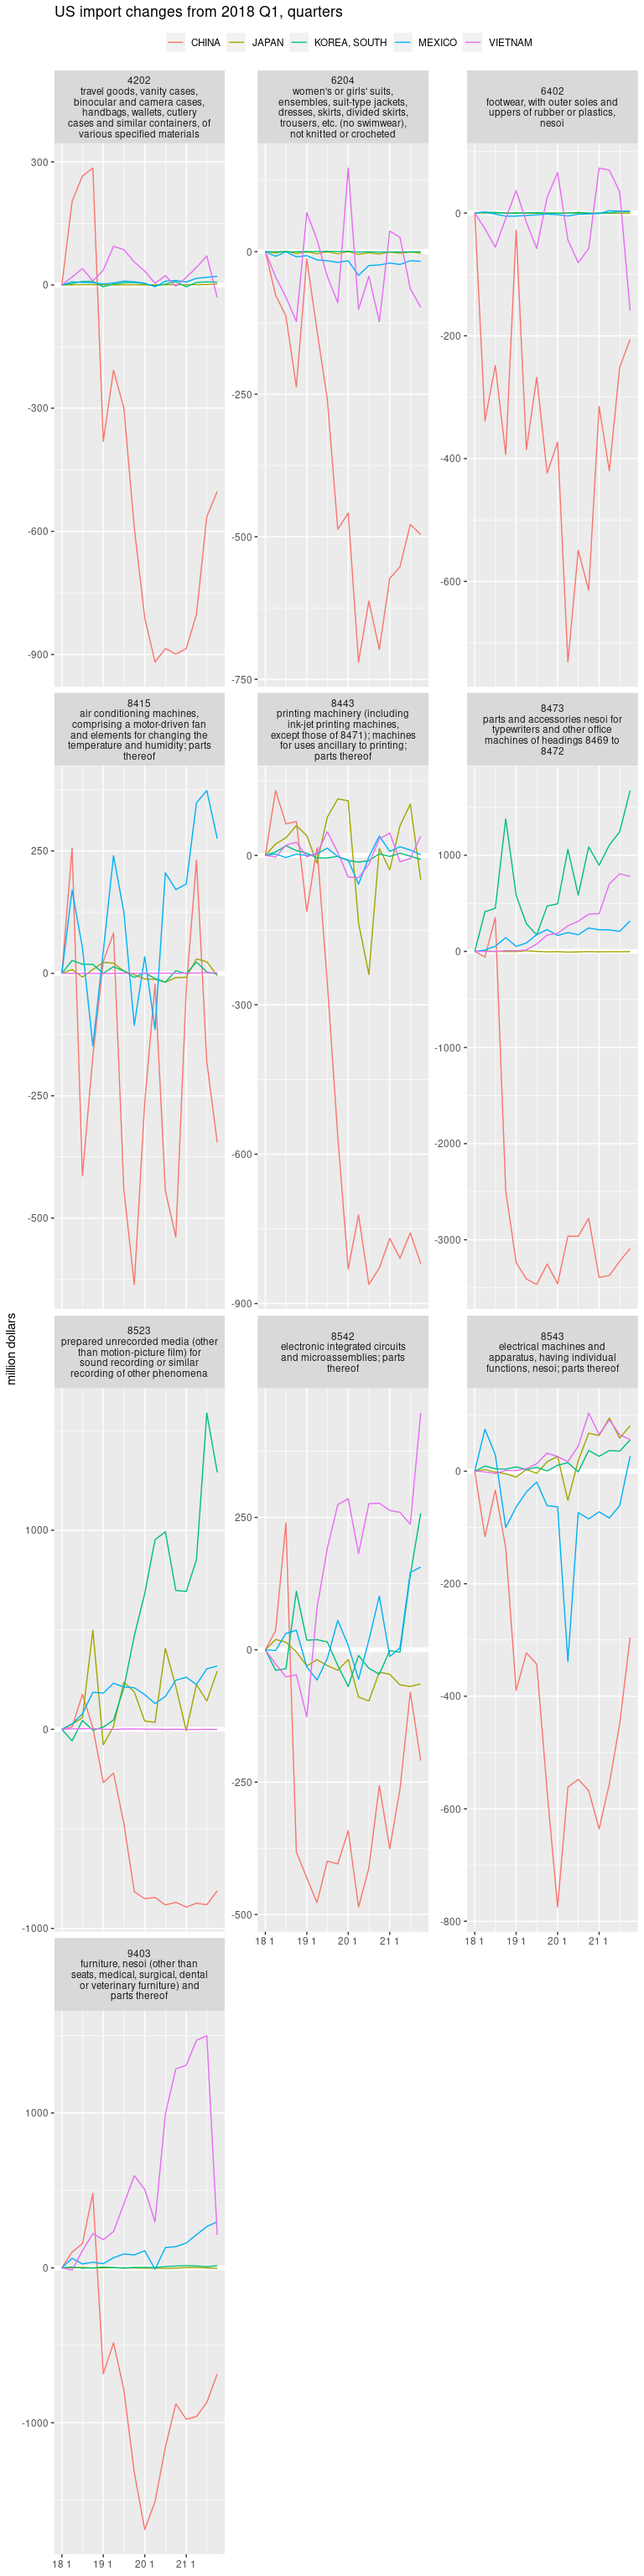
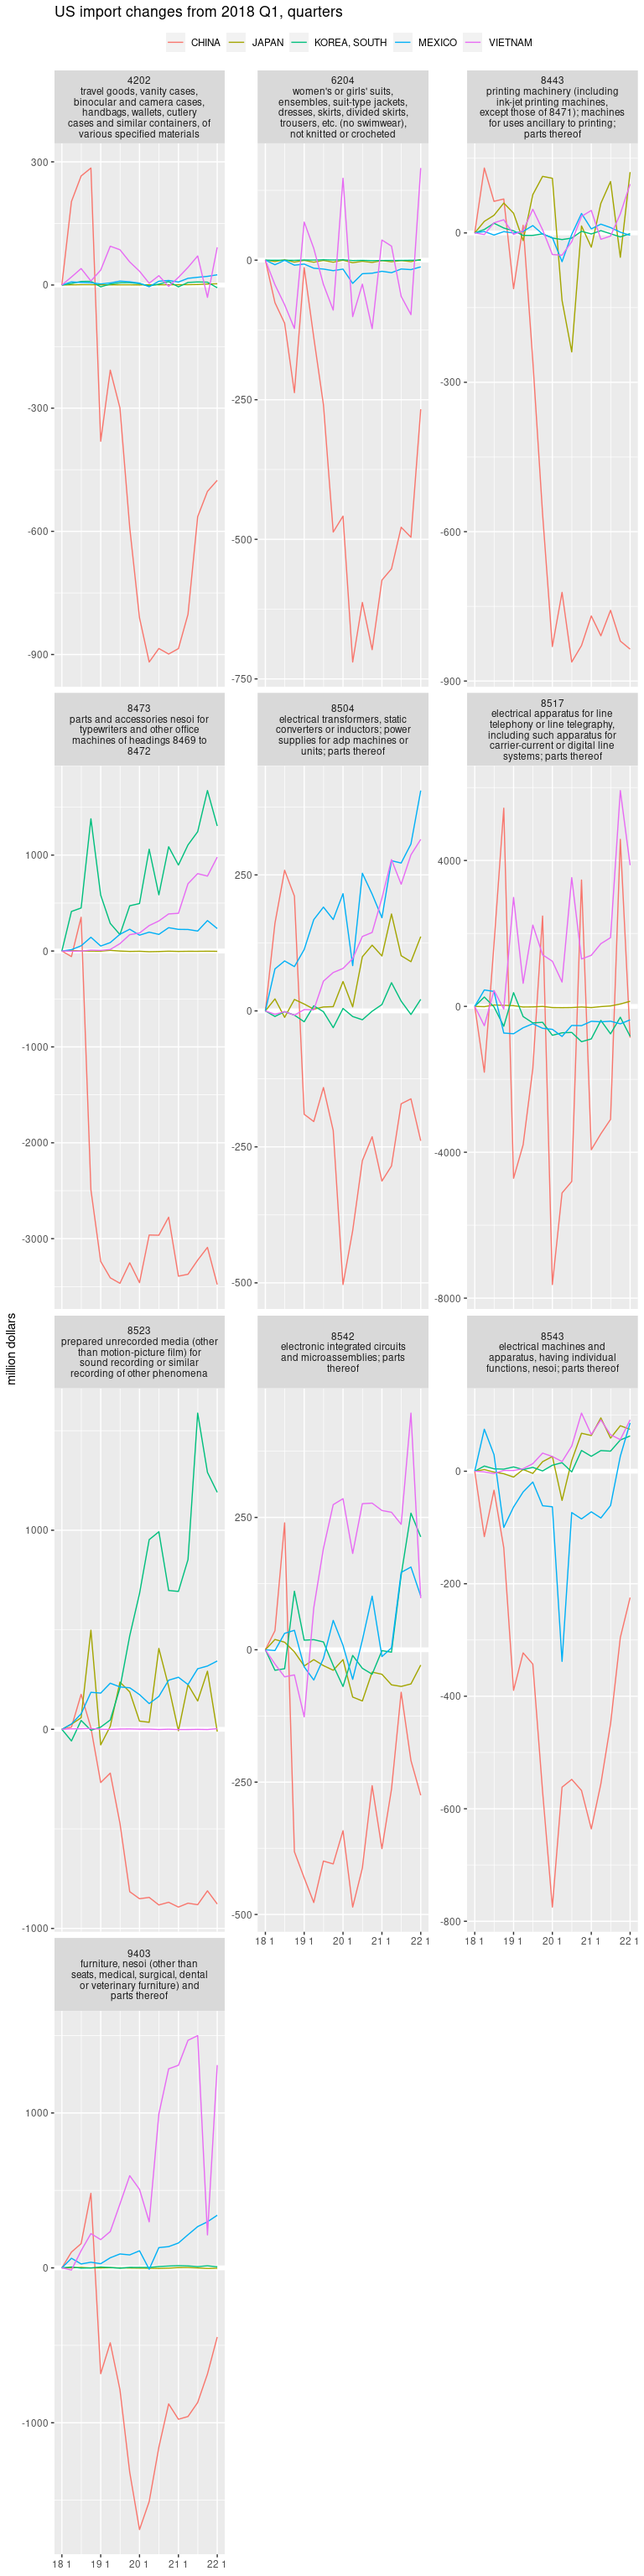
update March 2022 trade

diff --git a/Trade-diversion.md b/Trade-diversion.md
@@ -12,7 +12,7 @@ Mitsuo Shiota
 -   [Draw charts of US import changes from 2018 Q1 from each
     country](#draw-charts-of-us-import-changes-from-2018-q1-from-each-country)
 
-Updated: 2022-02-09
+Updated: 2022-05-05
 
 ## Summary
 
@@ -44,9 +44,9 @@ imports from China are still more than 500 million dollars.
 For the goods descriptions of HS codes, I refer to
 <https://dataweb.usitc.gov/classification/commodity-description/HTS/4>.
 
-Vietnam is replacing China in 8542 (electronic integrated circuits) and 9403 (Other furniture).
+South Korea, Vietnam, and Mexico have gained in 8542 (electronic integrated circuits), and Vietnam, and Mexico have gained in 9403 (Other furniture), while China has regained some lost ground from the bottom of 2019-2020.
 
-Mexico is increasing exports to the U.S. in 8415 (air conditioning machines), while South Korea is increasing in 8523 (Recording medium).
+South Korea has replaced China in 8523 (Recording medium).
 
 ![](Trade-diversion_files/figure-gfm/draw_charts-1.png)<!-- -->
 

diff --git a/README.md b/README.md
@@ -14,7 +14,7 @@ Mitsuo Shiota
 -   [Look at the Chinese share
     movements](#look-at-the-chinese-share-movements)
 
-Updated: 2022-04-06
+Updated: 2022-05-05
 
 I separated the codes of extracting HTS from USTR site to [another
 page](Extract-hts-from-USTR.md).
